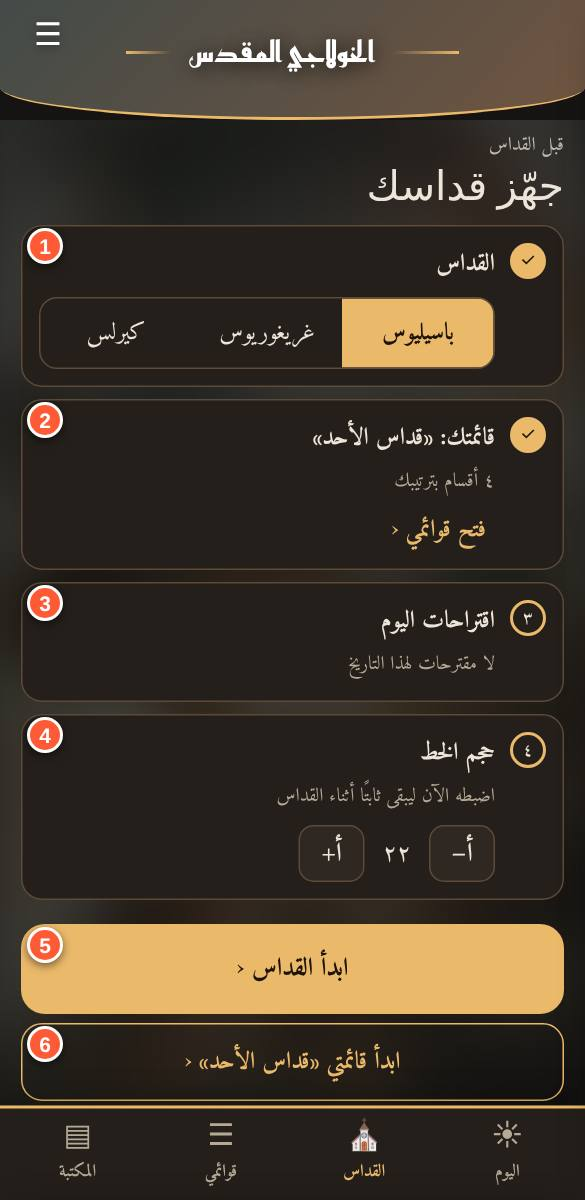
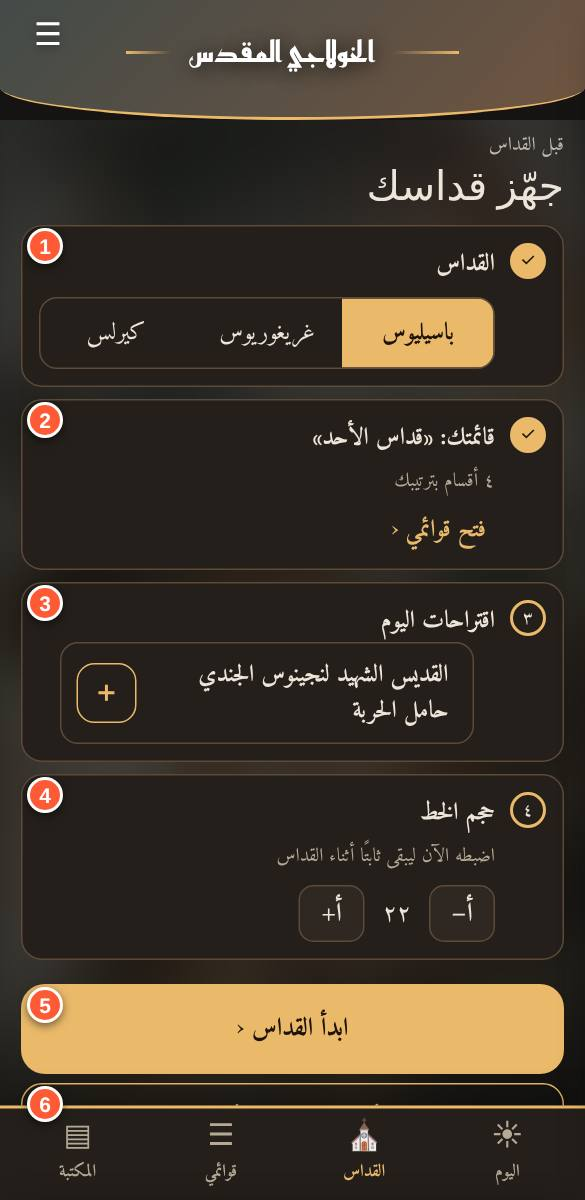
الانتقال السريع في الفهرس أزرار ثابتة أسفل الفهرس بدل صف يُسحب (r130)
Claude-Session: https://claude.ai/code/session_01TxsQH8W41ZBNhnMhe9bVaK

Changed region(s): [[0.0308, 0.5242, 0.9846, 0.9558], [0.7692, 0.5242, 0.8, 0.555]]

diff --git a/index.html b/index.html
@@ -745,11 +745,12 @@ html[data-mode="light"]{--md-bg:color-mix(in srgb,#2fa6bd 20%,var(--card));--md-
 .exb{display:flex;align-items:center;gap:8px;width:100%;padding:7px 12px;text-align:start;color:var(--ink);font-size:.88rem}
 .exb .ext{flex:1;min-width:0;overflow:hidden;text-overflow:ellipsis;white-space:nowrap;opacity:.85}.exb .exc{color:var(--ex-acc,var(--mute))}
 .exbody{padding:2px 12px 10px;line-height:1.9}.exbody[hidden]{display:none}
-.ixqj{display:flex;gap:6px;overflow-x:auto;padding:4px 2px 8px;margin:0 0 4px;scrollbar-width:thin}
-.ixqj button{flex:none;white-space:nowrap;padding:5px 11px;border-radius:999px;border:1px solid var(--line);background:var(--card2);color:var(--ink);font-size:.78rem}
+.ixqj{position:sticky;bottom:0;z-index:2;display:grid;grid-template-columns:repeat(3,1fr);gap:5px;padding:8px 10px calc(8px + env(safe-area-inset-bottom));margin:8px -10px 0;background:var(--card);border-top:1px solid var(--line)}
+.ixqj button{white-space:nowrap;padding:5px 4px;border-radius:10px;border:1px solid var(--line);background:var(--card2);color:var(--ink);font-size:.76rem;overflow:hidden;text-overflow:ellipsis}
 .ixqj button.on{background:var(--acc);color:var(--onacc,#fff);border-color:transparent}
 .exm{display:inline-block;margin:6px 8px;padding:3px 12px;border-radius:999px;background:var(--ex-bg,var(--card2));border:1.5px solid var(--ex-line,var(--line));color:var(--ink);font-size:.82rem}
 #untabs{touch-action:pan-x}
+html.ix-open #dxfab,html.ix-open #qfs{display:none!important}
 </style>
 </head>
 <body>
@@ -1414,12 +1415,14 @@ function ixGroup(){
   if(h.indexOf("s/")===0){var id=h.slice(2).split("?")[0];return BYID[id]?BYID[id].group:null}
   if(h.indexOf("g/")===0){var gid=h.slice(2);return D.groups.filter(function(x){return x.id===gid})[0]||null}
   return null}
+var IXSN={raf:"البخور",canons:"القوانين",bas:"باسيلي",greg:"غريغوري",cyr:"كيرلسي",qisam:"القسمة",misc:"متنوعة",dox:"ذكصولوجيات",bless:"التبريك",taqs:"الطقس",app:"الملحق"};
 function buildIdx(){
   var ix=idxEl(),g=ixGroup();
   var h='<div class="ixh"><b>📑 '+(g?esc(g.title):'الأقسام الرئيسية')+'</b><span><button data-live="1" aria-label="وضع الكنيسة">🕯</button><button data-ixset="1" aria-label="الإعدادات">⚙</button><button data-ixc="1" aria-label="إغلاق">✕</button></span></div>';
-  if(g){h+='<div class="ixqj" aria-label="انتقال سريع للأقسام">';D.groups.forEach(function(x){h+='<button data-igg="'+x.id+'" class="'+(x===g?'on':'')+'">'+(ICONS[x.id]||"☩")+' '+esc(shortN(x.title,16))+'</button>'});h+='</div><button class="ixhome" data-ixhome="1">⌂ الصفحة الرئيسية — كل الأقسام الكبرى</button>'}
+  if(g)h+='<button class="ixhome" data-ixhome="1">⌂ الصفحة الرئيسية — كل الأقسام الكبرى</button>';
   if(g&&CUR.id&&BYID[CUR.id]&&BYID[CUR.id].group===g)h+='<div class="ixm"><span>طريقة القراءة</span><span class="ixmb"><button data-ixm="unit" class="'+(S.rm==="unit"?'on':'')+'">قطعة قطعة</button><button data-ixm="flow" class="'+(S.rm==="flow"?'on':'')+'">متصل</button></span></div>';
   h+='<input id="ixq" class="search ixs" placeholder="'+(g?'ابحث في '+esc(g.title)+'…':'ابحث عن قسم…')+'" autocomplete="off" value="'+esc(IXQ)+'"><div id="ixl">'+idxList()+'</div>';
+  if(g){h+='<div class="ixqj" aria-label="انتقال سريع للأقسام">';D.groups.forEach(function(x){h+='<button data-igg="'+x.id+'" class="'+(x===g?'on':'')+'">'+(ICONS[x.id]||"☩")+' '+esc(IXSN[x.id]||shortN(x.title,8))+'</button>'});h+='</div>'}
   ix.innerHTML=h}
 function idxList(){
   var q=norm(IXQ.trim()),cur=CUR.id,g=ixGroup(),h="";
@@ -1441,8 +1444,8 @@ function idxList(){
     h+='<div class="ie">'+btn(e.s,false)+(e.kids.length?'<button class="iex" data-ie="'+e.s.id+'" aria-expanded="'+open+'" aria-label="الأجزاء التفصيلية">'+(open?'▴':'▾')+'</button>':'')+'</div>';
     if(e.kids.length){h+='<div class="ik'+(open?' open':'')+'">';(q?kids:e.kids).forEach(function(k){h+=btn(k,true)});h+='</div>'}});
   return any?h:h+'<p class="hint">لا نتائج.</p>'}
-function openIdx(){buildIdx();var ix=idxEl();ix.style.transform="";ix.classList.add("on");sc.classList.add("on");var c=ix.querySelector(".isec.cur");if(c)c.scrollIntoView({block:"center"})}
-function closeIdx(){var ix=idxEl();ix.classList.remove("on");ix.style.transform="";if(!sh.classList.contains("on"))sc.classList.remove("on")}
+function openIdx(){buildIdx();var ix=idxEl();document.documentElement.classList.add("ix-open");ix.style.transform="";ix.classList.add("on");sc.classList.add("on");var c=ix.querySelector(".isec.cur");if(c)c.scrollIntoView({block:"center"})}
+function closeIdx(){var ix=idxEl();document.documentElement.classList.remove("ix-open");ix.classList.remove("on");ix.style.transform="";if(!sh.classList.contains("on"))sc.classList.remove("on")}
 document.addEventListener("click",function(e){
   var ix=idxEl();if(!ix)return;
   if(e.target.closest("#bsub")&&document.documentElement.getAttribute("data-pg")==="r"){toggleDD();return}
@@ -1483,7 +1486,7 @@ document.addEventListener("keydown",function(e){if(e.key==="Escape")closeIdx()})
   function end(e){
     var s=st;st=null;if(!s||!s.d)return;var ix=idxEl(),p=e.changedTouches&&e.changedTouches[0],dx=p?s.x-p.clientX:0,dt=Math.max(1,Date.now()-s.t),fast=Math.abs(dx)/dt*1000>500&&Math.abs(dx)>40;
     ix.style.transition="";
-    if(s.mode==="o"){if(dx>pw()*.35||fast){ix.style.transform="";ix.classList.add("on");sc.classList.add("on")}else{closeIdx()}}
+    if(s.mode==="o"){if(dx>pw()*.35||fast){ix.style.transform="";ix.classList.add("on");document.documentElement.classList.add("ix-open");sc.classList.add("on")}else{closeIdx()}}
     else{if(-dx>pw()*.3||fast&&dx<0){closeIdx()}else{ix.style.transform=""}}}
   document.addEventListener("touchend",end,P);document.addEventListener("touchcancel",end,P);
 })();

diff --git a/tools/make-guide.js b/tools/make-guide.js
@@ -23,8 +23,8 @@ const SPECS=[
 {id:'reader',title:'القراءة',hash:'#/s/bas-hulul',summary:'شاشة قراءة أي قسم: نص بثلاثة أعمدة (قبطي، معرَّب، عربي) مع إرشادات الطقس.',
  marks:[['#bsub','اسم القسم ▾','اضغط عليه لتنتقل بسرعة لأي قسم آخر.'],['#opts label:nth-of-type(1)','ع · م · ق','تظهر أو تخفي الأعمدة: العربي، المعرَّب، القبطي.'],['#btnSearch','بحث','يبحث في كل نصوص البرنامج.'],['.sts','رحلة المسيح','المحطة التي تقابل هذا الجزء من القداس (تفصيلها في صفحتها).'],['.unh [data-whc]','🕊 همسة','يظهر أو يخفي همسة صلاة قصيرة من وحي القطعة.'],['.unh [data-live]','🕯 وضع الكنيسة','نص كبير داكن للقراءة داخل الكنيسة.'],['.unh [data-uidx]','فهرس','قائمة قطع هذا القسم للانتقال لأي قطعة.'],['.unb','شريط التقدم','نسبة ما قرأته في هذا القسم.'],['.unp .rub, .rub','إرشاد (أحمر)','حركات الكاهن والشعب وما يقال.'],['#dsheet','الدرج السفلي','أيقونات فقط: 💭 تأمل، 📝 شروحات، 🕯 إرشادات، 📎 هوامش، 🧭 المحطة، 📖 دليل. اسحبه لأعلى ليفتح ولأسفل ليُغلق، أو اضغط أي أيقونة.'],['#dxfab','＋ / ✓','يضيف القسم لأي قائمة من قوائمك، ويفتح قائمة خياراتها.'],['#qfs','أ+ / أ−','تكبير وتصغير الخط فورا.']],
  nav:'للانتقال بين الأجزاء: «التالي» في آخر الصفحة، أو اسحب الشاشة، أو افتح الفهرس. هذه الأزرار تظهر هنا فقط.'},
-{id:'sidx',title:'الفهرس الجانبي',hash:'#/s/bas-hulul',setup:async p=>{await open(p,'#idxh')},summary:'يُفتح بالسحب من حافة اليمين. في أعلاه شريط انتقال سريع بين الأقسام الكبرى.',
- marks:[['.ixqj','انتقال سريع','اضغط أي قسم (الباسيلي، الغريغوري، الذكصولوجيات…) لتذهب إليه مباشرة؛ القسم الحالي مضيء.'],['.ixhome','الصفحة الرئيسية','للرجوع لكل الأقسام الكبرى.']]},
+{id:'sidx',title:'الفهرس الجانبي',hash:'#/s/bas-hulul',setup:async p=>{await open(p,'#idxh')},summary:'يُفتح بالسحب من حافة اليمين. في أسفله أزرار ثابتة للانتقال السريع بين الأقسام الكبرى.',
+ marks:[['.ixqj','انتقال سريع','أزرار ثابتة أسفل الفهرس (لا تُسحب يمينا ويسارا): اضغط أي قسم لتذهب إليه؛ القسم الحالي مضيء.'],['.ixhome','الصفحة الرئيسية','للرجوع لكل الأقسام الكبرى.']]},
 {id:'story',title:'رحلة المسيح في القداس',hash:'#/s/bas-hulul',setup:async p=>{await open(p,'.sts .sti')},summary:'القداس يعيد رحلة المسيح من الميلاد للصعود. هذه الورقة تشرح أي محطة أنت فيها.',
  marks:[['.jin','ما هذه الخريطة؟','شرح قصير للفكرة.'],['.jt.hr','أنت هنا','المحطة التي تقابل ما تقرؤه الآن.'],['.jt:nth-of-type(1) .jm','يقابل في القداس','الجزء من القداس الذي يقابل هذه المحطة.']],
  nav:'في أعلى القراءة: اضغط الصف لتصغير الشريط لدوائر المحطات فقط، وبنفس الضغطة يكبر.'},

diff --git a/guide-pages.js b/guide-pages.js
@@ -159,41 +159,36 @@ window.KG_PAGES=[
    ],
    [
     4,
-    "رحلة المسيح",
-    "المحطة التي تقابل هذا الجزء من القداس (تفصيلها في صفحتها)."
-   ],
-   [
-    5,
     "🕊 همسة",
     "يظهر أو يخفي همسة صلاة قصيرة من وحي القطعة."
    ],
    [
-    6,
+    5,
     "🕯 وضع الكنيسة",
     "نص كبير داكن للقراءة داخل الكنيسة."
    ],
    [
-    7,
+    6,
     "فهرس",
     "قائمة قطع هذا القسم للانتقال لأي قطعة."
    ],
    [
-    8,
+    7,
     "شريط التقدم",
     "نسبة ما قرأته في هذا القسم."
    ],
    [
-    9,
+    8,
     "الدرج السفلي",
     "أيقونات فقط: 💭 تأمل، 📝 شروحات، 🕯 إرشادات، 📎 هوامش، 🧭 المحطة، 📖 دليل. اسحبه لأعلى ليفتح ولأسفل ليُغلق، أو اضغط أي أيقونة."
    ],
    [
-    10,
+    9,
     "＋ / ✓",
     "يضيف القسم لأي قائمة من قوائمك، ويفتح قائمة خياراتها."
    ],
    [
-    11,
+    10,
     "أ+ / أ−",
     "تكبير وتصغير الخط فورا."
    ]
@@ -204,12 +199,12 @@ window.KG_PAGES=[
   "id": "sidx",
   "title": "الفهرس الجانبي",
   "img": "guide/sidx.jpg",
-  "summary": "يُفتح بالسحب من حافة اليمين. في أعلاه شريط انتقال سريع بين الأقسام الكبرى.",
+  "summary": "يُفتح بالسحب من حافة اليمين. في أسفله أزرار ثابتة للانتقال السريع بين الأقسام الكبرى.",
   "items": [
    [
     1,
     "انتقال سريع",
-    "اضغط أي قسم (الباسيلي، الغريغوري، الذكصولوجيات…) لتذهب إليه مباشرة؛ القسم الحالي مضيء."
+    "أزرار ثابتة أسفل الفهرس (لا تُسحب يمينا ويسارا): اضغط أي قسم لتذهب إليه؛ القسم الحالي مضيء."
    ],
    [
     2,
@@ -224,23 +219,7 @@ window.KG_PAGES=[
   "title": "رحلة المسيح في القداس",
   "img": "guide/story.jpg",
   "summary": "القداس يعيد رحلة المسيح من الميلاد للصعود. هذه الورقة تشرح أي محطة أنت فيها.",
-  "items": [
-   [
-    1,
-    "ما هذه الخريطة؟",
-    "شرح قصير للفكرة."
-   ],
-   [
-    2,
-    "أنت هنا",
-    "المحطة التي تقابل ما تقرؤه الآن."
-   ],
-   [
-    3,
-    "يقابل في القداس",
-    "الجزء من القداس الذي يقابل هذه المحطة."
-   ]
-  ],
+  "items": [],
   "nav": "في أعلى القراءة: اضغط الصف لتصغير الشريط لدوائر المحطات فقط، وبنفس الضغطة يكبر."
  },
  {
@@ -261,16 +240,21 @@ window.KG_PAGES=[
    ],
    [
     3,
+    "اقتراحات اليوم",
+    "ذكصولوجيات تناسب اليوم. ＋ لإضافتها، أو «أضف الكل»."
+   ],
+   [
+    4,
     "ابدأ القراءة",
     "يقرأ من أول قسم ويتنقل بترتيب القائمة."
    ],
    [
-    4,
+    5,
     "الترتيب",
     "رقم القسم في القائمة."
    ],
    [
-    5,
+    6,
     "▲ ▼ ✕",
     "تحريك القسم لأعلى أو لأسفل أو حذفه."
    ]

diff --git a/guide-news.js b/guide-news.js
@@ -1,6 +1,7 @@
 /* سجل الميزات الجديدة (الأحدث أولا). كل ميزة جديدة تُضاف هنا كمدخل جديد في أعلى القائمة،
    ثم تُحدَّث مواصفة الصفحة المتأثرة في tools/make-guide.js وتُعاد اللقطات (node tools/make-guide.js). */
 window.KG_NEWS=[
+{v:"r130",t:"الانتقال السريع في الفهرس أزرار ثابتة",x:"صف الانتقال السريع بين الأقسام لم يعد يُسحب يمينا ويسارا (كان يُغلق الفهرس بالخطأ)، بل صار أزرارا ثابتة في أسفل الفهرس بأسماء قصيرة."},
 {v:"r129",t:"الدرج السفلي بأيقونات فقط + شروحات مرقّمة",x:"أُلغي زر «النص»، والأيقونات بلا كتابة ولا أعداد؛ يُفتح الدرج بسحبه لأعلى أو بالضغط على أيقونة، ويُغلق بسحبه لأسفل. الشروحات صار لكل شرح رقم («شرح ١»)، وفي الإعدادات خيار جديد «في الدرج السفلي» يضع الشروحات في أيقونة 📝 داخل الدرج ويترك رقمها في النص."},
 {v:"r128",t:"ألوان مميّزة للتأمل والشرح والهمسة",x:"كل نوع له لون خلفية خاص في كل الثيمات: التأمل أزرق مخضر، والشرح ذهبي، والهمسة بنفسجية، وكلها تختلف عن خلفية نص القداس. في الإعدادات (القراءة) تضبط كلًّا منها: مطوي أو مفتوح (والتأمل والهمسة يمكن إخفاؤهما). وأرباع الذكصولوجيات صار التباين بينها أقوى. وفي الفهرس الجانبي شريط انتقال سريع بين الأقسام الكبرى."},
 {v:"r127",t:"«ابدأ القداس» بنفس الشكل العادي",x:"أُلغي «وضع الشماس» بشكله الداكن المختلف. الزر يفتح القراءة بنفس تصميمك وألوانك ويسجّل ما صليته، وتجد «بعد القداس» في القائمة."},

diff --git a/sw.js b/sw.js
@@ -1,4 +1,4 @@
-const CACHE_NAME='khulagi-v1.5-shell-r129';
+const CACHE_NAME='khulagi-v1.5-shell-r130';
 const FILES=['./','index.html','guide-news.js','guide-pages.js','guide/doxologies.jpg','guide/library.jpg','guide/lists.jpg','guide/lit.jpg','guide/notes.jpg','guide/post.jpg','guide/pre.jpg','guide/reader.jpg','guide/settings.jpg','guide/sidx.jpg','guide/splash.jpg','guide/story.jpg','guide/today.jpg','reemkufi-arabic-700-normal.woff2','dawn.jpg','data.js','study.js','swipe.js','live.js','story.js','study-data.js','data-bible.js','content-raf.txt','content-bas.txt','content-greg.txt','content-cyr.txt','content-qisam.txt','content-misc.txt','content-bless.txt','content-app.txt','content-taqs.txt','content-dox.txt','manifest.webmanifest','icon-192.png','icon-512.png','amiri-arabic-400-normal.woff2','amiri-arabic-700-normal.woff2','amiri-latin-400-normal.woff2','tajawal-arabic-400.woff2','tajawal-latin-400.woff2','tajawal-arabic-700.woff2','tajawal-latin-700.woff2','cairo-arabic-400-normal.woff2','cairo-arabic-700-normal.woff2','el-messiri-arabic-400-normal.woff2','el-messiri-arabic-700-normal.woff2','lateef-arabic-400-normal.woff2','lateef-arabic-700-normal.woff2','markazi-text-arabic-400-normal.woff2','markazi-text-arabic-700-normal.woff2','noto-naskh-arabic-arabic-400-normal.woff2','noto-naskh-arabic-arabic-700-normal.woff2','reem-kufi-arabic-400-normal.woff2','reem-kufi-arabic-700-normal.woff2','scheherazade-new-arabic-400-normal.woff2','scheherazade-new-arabic-700-normal.woff2','amiri-latin-700-normal.woff2','noto-sans-coptic-coptic-400-normal.woff2','noto-sans-coptic-latin-400-normal.woff2'];
 self.addEventListener('install',e=>{e.waitUntil(caches.open(CACHE_NAME).then(c=>Promise.all(FILES.map(f=>c.add(new Request(f,{cache:'reload'})).catch(()=>{})))).then(()=>self.skipWaiting()))});
 self.addEventListener('activate',e=>{e.waitUntil(caches.keys().then(k=>Promise.all(k.filter(x=>x!==CACHE_NAME).map(x=>caches.delete(x)))).then(()=>self.clients.claim()))});
